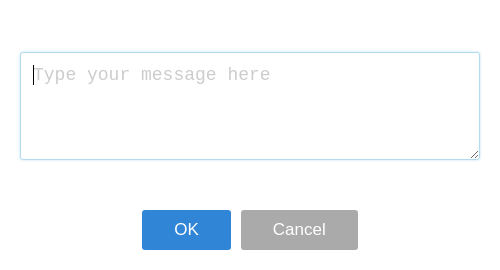
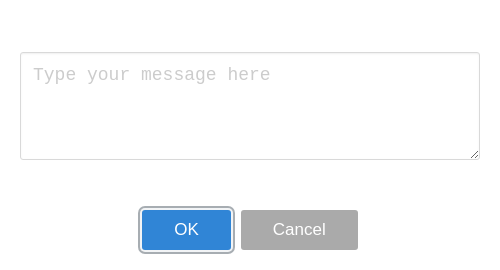
Bump screenshots

Changed region(s): [[0.03, 0.563, 0.96, 0.5926], [0.03, 0.1778, 0.96, 0.2074], [0.27, 0.7407, 0.48, 0.9481]]

diff --git a/visual-tests.js b/visual-tests.js
@@ -32,11 +32,13 @@ async function run (testCase) {
     case 'input-type-text':
       await page.click('#input-text button')
       await page.type('.swal2-input', 'Hola!')
+      await page.focus('.swal2-confirm')
       break
     case 'input-type-email-invalid':
       await page.click('#input-email button')
       await page.type('.swal2-input', 'invalid email')
       await page.click('.swal2-confirm')
+      await page.focus('.swal2-confirm')
       break
     case 'input-type-email-valid':
       await page.click('#input-email button')
@@ -47,6 +49,7 @@ async function run (testCase) {
       await page.click('#input-url button')
       await page.type('.swal2-input', 'invalid URL')
       await page.click('.swal2-confirm')
+      await page.focus('.swal2-confirm')
       break
     case 'input-type-url-valid':
       await page.click('#input-url button')
@@ -56,9 +59,11 @@ async function run (testCase) {
     case 'input-type-password':
       await page.click('#input-password button')
       await page.type('.swal2-input', 'passw0rd')
+      await page.focus('.swal2-confirm')
       break
     case 'input-type-textarea':
       await page.click('#input-textarea button')
+      await page.focus('.swal2-confirm')
       break
     case 'input-type-select':
       await page.click('#input-select button')
@@ -121,15 +126,21 @@ async function run (testCase) {
       break
     case 'chaining-modals-step1':
       await page.click('#chaining-modals button')
+      await page.type('.swal2-input', '1')
+      await page.focus('.swal2-confirm')
       break
     case 'chaining-modals-step2':
       await page.click('#chaining-modals button')
       await page.click('.swal2-confirm')
+      await page.type('.swal2-input', '2')
+      await page.focus('.swal2-confirm')
       break
     case 'chaining-modals-step3':
       await page.click('#chaining-modals button')
       await page.click('.swal2-confirm')
       await page.click('.swal2-confirm')
+      await page.type('.swal2-input', '3')
+      await page.focus('.swal2-confirm')
       break
     case 'chaining-modals-success':
       await page.click('#chaining-modals button')
@@ -229,10 +240,10 @@ async function runAll (testCase) {
   await run('ajax-request-success')
   await run('ajax-request-reject')
 
-  // await run('chaining-modals-step1')
-  // await run('chaining-modals-step2')
-  // await run('chaining-modals-step3')
-  // await run('chaining-modals-success')
+  await run('chaining-modals-step1')
+  await run('chaining-modals-step2')
+  await run('chaining-modals-step3')
+  await run('chaining-modals-success')
 }
 
 runAll().then(() => {
